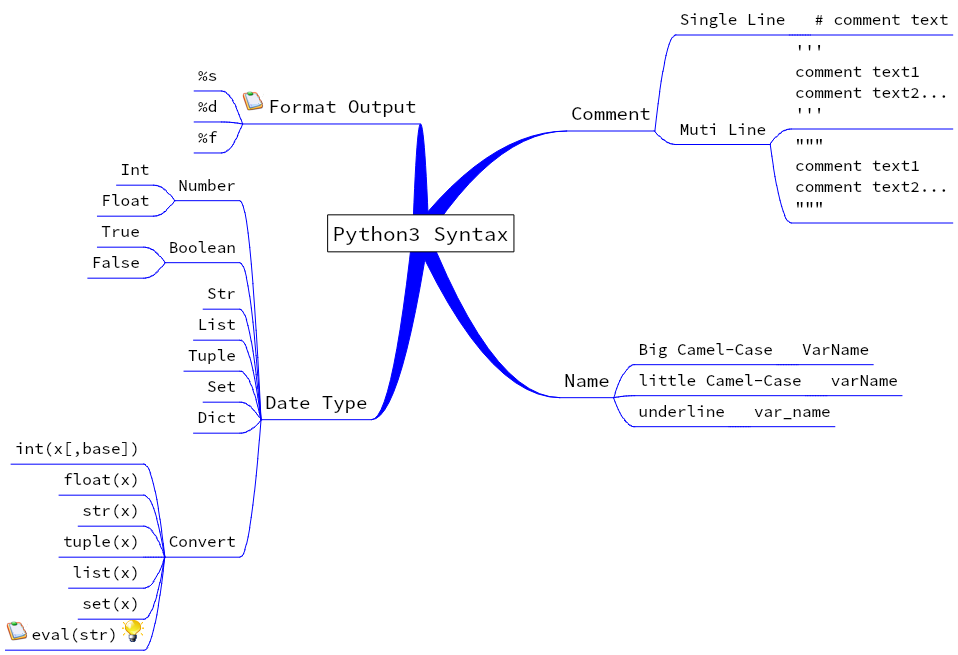
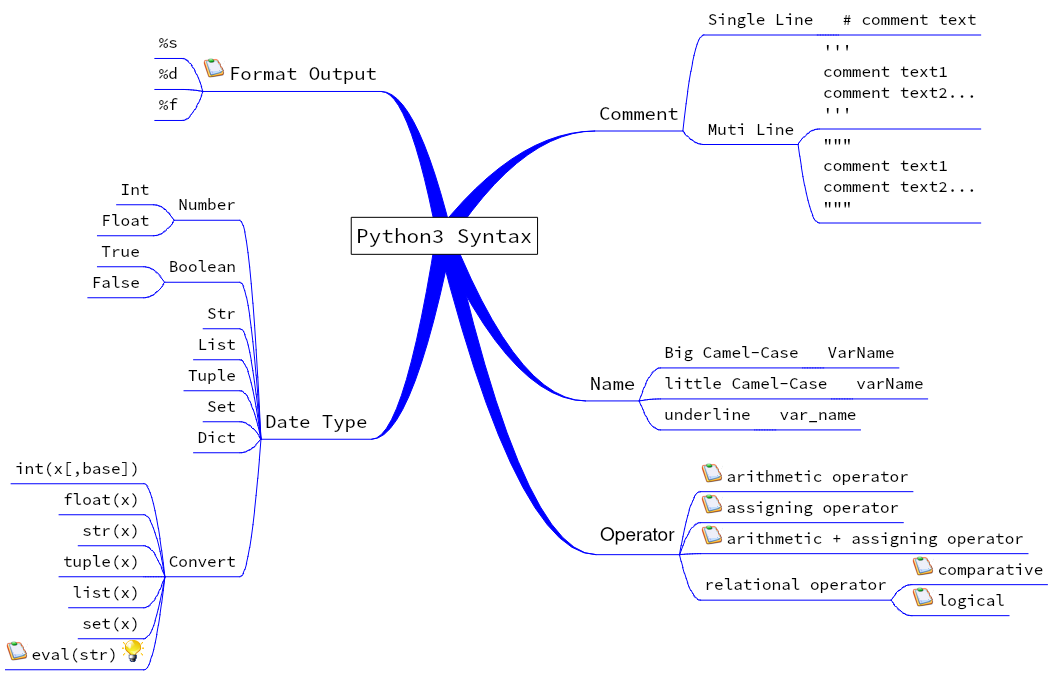
mod Python3_Syntax_Export

diff --git a/Python3_Syntax_Export/Python3_Syntax.html b/Python3_Syntax_Export/Python3_Syntax.html
@@ -63,6 +63,13 @@ comment text2...
 </div><div class="vym-toc-branch-2"><a href="#mc:0,bo:3,bo:0"> 4.1.  %s</a></br>
 </div><div class="vym-toc-branch-2"><a href="#mc:0,bo:3,bo:1"> 4.2.  %d</a></br>
 </div><div class="vym-toc-branch-2"><a href="#mc:0,bo:3,bo:2"> 4.3.  %f</a></br>
+</div><div class="vym-toc-branch-1"><a href="#mc:0,bo:4"> 5.  Operator</a></br>
+</div><div class="vym-toc-branch-2"><a href="#mc:0,bo:4,bo:0"> 5.1.  arithmetic operator</a></br>
+</div><div class="vym-toc-branch-2"><a href="#mc:0,bo:4,bo:1"> 5.2.  assigning operator</a></br>
+</div><div class="vym-toc-branch-2"><a href="#mc:0,bo:4,bo:2"> 5.3.  arithmetic + assigning operator</a></br>
+</div><div class="vym-toc-branch-2"><a href="#mc:0,bo:4,bo:3"> 5.4.  relational operator</a></br>
+</div><div class="vym-toc-branch-3"><a href="#mc:0,bo:4,bo:3,bo:0"> 5.4.1.  comparative</a></br>
+</div><div class="vym-toc-branch-3"><a href="#mc:0,bo:4,bo:3,bo:1"> 5.4.2.  logical</a></br>
 </div></td></tr>
 </table>
 
@@ -138,8 +145,8 @@ comment text2...
 <td>
 <!DOCTYPE HTML PUBLIC "-//W3C//DTD HTML 4.0//EN" "http://www.w3.org/TR/REC-html40/strict.dtd">
 
-<p class="vym-fixed-note-paragraph"><span style=" font-family:'Courier','Source Code Pro'; font-size:12pt; font-weight:384; color:#000000;">convert string to the original date type,</span></p>
-<p class="vym-fixed-note-paragraph"><span style=" font-family:'Courier','Source Code Pro'; font-size:12pt; font-weight:384; color:#000000;">take off the quotation marks.</span></p>
+<p class="vym-note-paragraph"><span style=" font-family:'Courier','Source Code Pro'; font-size:12pt; font-weight:384; color:#000000;">convert string to the original data type,</span></p>
+<p class="vym-note-paragraph"><span style=" font-family:'Courier','Source Code Pro'; font-size:12pt; font-weight:384; color:#000000;">take off the quotation marks.</span></p>
 </td></tr></table>
   </li>
       </ul>  </li>
@@ -160,7 +167,6 @@ comment text2...
 <p class="vym-note-paragraph"><span style=" font-family:'DejaVu Sans Mono','Source Code Pro'; font-size:12pt; color:#000000;">keyword</span></p>
 <p class="vym-note-paragraph"><span style=" font-family:'DejaVu Sans Mono','Source Code Pro'; font-size:12pt; color:#000000;">3.print(&quot;----{a}----{b}----&quot;.format(a=var1, b=var2))</span></p>
 <p class="vym-note-paragraph"><br /></p>
-<p class="vym-note-paragraph"><br /></p>
 <p class="vym-note-paragraph"><span style=" font-family:'DejaVu Sans Mono','Source Code Pro'; font-size:12pt; color:#000000;">for %s the f string is better!</span></p>
 <p class="vym-note-paragraph"><span style=" font-family:'DejaVu Sans Mono','Source Code Pro'; font-size:12pt; color:#000000;">a = &quot;apple&quot;</span></p>
 <p class="vym-note-paragraph"><span style=" font-family:'DejaVu Sans Mono','Source Code Pro'; font-size:12pt; color:#000000;">b = &quot;banana&quot;</span></p>
@@ -172,59 +178,112 @@ comment text2...
       <li><span class='vym-branch-2' style='color:#000000' id='mc:0,bo:3,bo:1'>4.2.  %d</span>  </li>
       <li><span class='vym-branch-2' style='color:#000000' id='mc:0,bo:3,bo:2'>4.3.  %f</span>  </li>
     </ul>
+  <h2><span class='vym-branch-1' style='color:#000000' id='mc:0,bo:4'>5.  Operator</span></h2>
+    <ul class="vym-list-ul-2">
+      <li><span class='vym-branch-2' style='color:#000000' id='mc:0,bo:4,bo:0'>5.1.  arithmetic operator</span>
+<table class="vym-note"><tr><td class="vym-note-flag">
+<td>
+<!DOCTYPE HTML PUBLIC "-//W3C//DTD HTML 4.0//EN" "http://www.w3.org/TR/REC-html40/strict.dtd">
+
+<p class="vym-note-paragraph"><span style=" font-family:'Sans Serif','Source Code Pro'; font-size:12pt;">+ - * / // % ** ()</span></p>
+</td></tr></table>
+  </li>
+      <li><span class='vym-branch-2' style='color:#000000' id='mc:0,bo:4,bo:1'>5.2.  assigning operator</span>
+<table class="vym-note"><tr><td class="vym-note-flag">
+<td>
+<!DOCTYPE HTML PUBLIC "-//W3C//DTD HTML 4.0//EN" "http://www.w3.org/TR/REC-html40/strict.dtd">
+
+<p class="vym-note-paragraph"><span style=" font-family:'DejaVu Sans Mono','Source Code Pro'; font-size:12pt; color:#000000;">=</span></p>
+</td></tr></table>
+  </li>
+      <li><span class='vym-branch-2' style='color:#000000' id='mc:0,bo:4,bo:2'>5.3.  arithmetic + assigning operator</span>
+<table class="vym-note"><tr><td class="vym-note-flag">
+<td>
+<!DOCTYPE HTML PUBLIC "-//W3C//DTD HTML 4.0//EN" "http://www.w3.org/TR/REC-html40/strict.dtd">
+
+<p class="vym-note-paragraph"><span style=" font-family:'DejaVu Sans Mono','Source Code Pro'; font-size:12pt; color:#000000;">+= -= *= /= //= **= %=</span></p>
+</td></tr></table>
+  </li>
+      <li><span class='vym-branch-2' style='color:#000000' id='mc:0,bo:4,bo:3'>5.4.  relational operator</span>
+      <ul class="vym-list-ul-3">
+        <li><span class='vym-branch-3' style='color:#000000' id='mc:0,bo:4,bo:3,bo:0'>5.4.1.  comparative</span>
+<table class="vym-note"><tr><td class="vym-note-flag">
+<td>
+<!DOCTYPE HTML PUBLIC "-//W3C//DTD HTML 4.0//EN" "http://www.w3.org/TR/REC-html40/strict.dtd">
+
+<p class="vym-note-paragraph"><span style=" font-family:'DejaVu Sans Mono','Source Code Pro'; font-size:12pt; color:#000000;">== != &gt; &lt; &gt;= &lt;=</span></p>
+</td></tr></table>
+  </li>
+        <li><span class='vym-branch-3' style='color:#000000' id='mc:0,bo:4,bo:3,bo:1'>5.4.2.  logical</span>
+<table class="vym-note"><tr><td class="vym-note-flag">
+<td>
+<!DOCTYPE HTML PUBLIC "-//W3C//DTD HTML 4.0//EN" "http://www.w3.org/TR/REC-html40/strict.dtd">
+
+<p class="vym-note-paragraph"><span style=" font-family:'DejaVu Sans Mono','Source Code Pro'; font-size:12pt; color:#000000;">and or not</span></p>
+</td></tr></table>
+  </li>
+      </ul>  </li>
+    </ul>
   
 
 <map name='imagemap'>
-  <area shape='rect' coords='328.631,215.83,512.943,250.83' href='#mc:0' alt='Python3 Syntax'>
-  <area shape='rect' coords='567.108,97,654.842,130' href='#mc:0,bo:0' alt='Comment'>
-  <area shape='rect' coords='675.842,5,789.373,34' href='#mc:0,bo:0,bo:0' alt='Single Line'>
-  <area shape='rect' coords='810.373,5,952.686,34' href='#mc:0,bo:0,bo:0,bo:0' alt='# comment text'>
-  <area shape='rect' coords='675.842,114.5,770.186,143.5' href='#mc:0,bo:0,bo:1' alt='Muti Line'>
-  <area shape='rect' coords='791.186,36,952.686,128' href='#mc:0,bo:0,bo:1,bo:0' alt='''' 
+  <area shape='rect' coords='352.249,218.332,536.562,253.332' href='#mc:0' alt='Python3 Syntax'>
+  <area shape='rect' coords='595.084,97,682.818,130' href='#mc:0,bo:0' alt='Comment'>
+  <area shape='rect' coords='703.818,5,817.349,34' href='#mc:0,bo:0,bo:0' alt='Single Line'>
+  <area shape='rect' coords='838.349,5,980.662,34' href='#mc:0,bo:0,bo:0,bo:0' alt='# comment text'>
+  <area shape='rect' coords='703.818,114.5,798.162,143.5' href='#mc:0,bo:0,bo:1' alt='Muti Line'>
+  <area shape='rect' coords='819.162,36,980.662,128' href='#mc:0,bo:0,bo:1,bo:0' alt='''' 
 
 comment text1
 
 comment text2...
 
 ''''>
-  <area shape='rect' coords='791.186,130,952.686,222' href='#mc:0,bo:0,bo:1,bo:1' alt='&quot;&quot;&quot;
+  <area shape='rect' coords='819.162,130,980.662,222' href='#mc:0,bo:0,bo:1,bo:1' alt='&quot;&quot;&quot;
 
 comment text1
 
 comment text2...
 
 &quot;&quot;&quot;'>
-  <area shape='rect' coords='560.137,363.68,613.7,396.68' href='#mc:0,bo:1' alt='Name'>
-  <area shape='rect' coords='634.7,334.68,777.012,363.68' href='#mc:0,bo:1,bo:0' alt='Big Camel-Case'>
-  <area shape='rect' coords='798.012,334.68,873.169,363.68' href='#mc:0,bo:1,bo:0,bo:0' alt='VarName'>
-  <area shape='rect' coords='634.7,365.68,805.794,394.68' href='#mc:0,bo:1,bo:1' alt='little Camel-Case'>
-  <area shape='rect' coords='826.794,365.68,901.95,394.68' href='#mc:0,bo:1,bo:1,bo:0' alt='varName'>
-  <area shape='rect' coords='634.7,396.68,729.044,425.68' href='#mc:0,bo:1,bo:2' alt='underline'>
-  <area shape='rect' coords='750.044,396.68,834.794,425.68' href='#mc:0,bo:1,bo:2,bo:0' alt='var_name'>
-  <area shape='rect' coords='261,385.682,371.516,418.682' href='#mc:0,bo:2' alt='Date Type'>
-  <area shape='rect' coords='174.438,170.682,240,199.682' href='#mc:0,bo:2,bo:0' alt='Number'>
-  <area shape='rect' coords='116.656,155.182,153.438,184.182' href='#mc:0,bo:2,bo:0,bo:0' alt='Int'>
-  <area shape='rect' coords='97.4688,186.182,153.438,215.182' href='#mc:0,bo:2,bo:0,bo:1' alt='Float'>
-  <area shape='rect' coords='164.844,232.682,240,261.682' href='#mc:0,bo:2,bo:1' alt='Boolean'>
-  <area shape='rect' coords='97.4688,217.182,143.844,246.182' href='#mc:0,bo:2,bo:1,bo:0' alt='True'>
-  <area shape='rect' coords='87.875,248.182,143.844,277.182' href='#mc:0,bo:2,bo:1,bo:1' alt='False'>
-  <area shape='rect' coords='203.219,279.182,240,308.182' href='#mc:0,bo:2,bo:2' alt='Str'>
-  <area shape='rect' coords='193.625,310.182,240,339.182' href='#mc:0,bo:2,bo:3' alt='List'>
-  <area shape='rect' coords='184.031,341.182,240,370.182' href='#mc:0,bo:2,bo:4' alt='Tuple'>
-  <area shape='rect' coords='203.219,372.182,240,401.182' href='#mc:0,bo:2,bo:5' alt='Set'>
-  <area shape='rect' coords='193.625,403.182,240,432.182' href='#mc:0,bo:2,bo:6' alt='Dict'>
-  <area shape='rect' coords='164.844,527.182,240,556.182' href='#mc:0,bo:2,bo:7' alt='Convert'>
-  <area shape='rect' coords='11.125,434.182,143.844,463.182' href='#mc:0,bo:2,bo:7,bo:0' alt='int(x[,base])'>
-  <area shape='rect' coords='59.0938,465.182,143.844,494.182' href='#mc:0,bo:2,bo:7,bo:1' alt='float(x)'>
-  <area shape='rect' coords='78.2813,496.182,143.844,525.182' href='#mc:0,bo:2,bo:7,bo:2' alt='str(x)'>
-  <area shape='rect' coords='59.0938,527.182,143.844,556.182' href='#mc:0,bo:2,bo:7,bo:3' alt='tuple(x)'>
-  <area shape='rect' coords='68.6875,558.182,143.844,587.182' href='#mc:0,bo:2,bo:7,bo:4' alt='list(x)'>
-  <area shape='rect' coords='78.2813,589.182,143.844,618.182' href='#mc:0,bo:2,bo:7,bo:5' alt='set(x)'>
-  <area shape='rect' coords='27.5,620.182,121.844,649.182' href='#mc:0,bo:2,bo:7,bo:6' alt='eval(str)'>
-  <area shape='rect' coords='264.437,89.9799,420.515,122.98' href='#mc:0,bo:3' alt='Format Output'>
-  <area shape='rect' coords='194.249,60.9799,221.437,89.9799' href='#mc:0,bo:3,bo:0' alt='%s'>
-  <area shape='rect' coords='194.249,91.9799,221.437,120.98' href='#mc:0,bo:3,bo:1' alt='%d'>
-  <area shape='rect' coords='194.249,122.98,221.437,151.98' href='#mc:0,bo:3,bo:2' alt='%f'>
+  <area shape='rect' coords='585.801,366.929,639.363,399.929' href='#mc:0,bo:1' alt='Name'>
+  <area shape='rect' coords='660.363,337.929,802.676,366.929' href='#mc:0,bo:1,bo:0' alt='Big Camel-Case'>
+  <area shape='rect' coords='823.676,337.929,898.832,366.929' href='#mc:0,bo:1,bo:0,bo:0' alt='VarName'>
+  <area shape='rect' coords='660.363,368.929,831.457,397.929' href='#mc:0,bo:1,bo:1' alt='little Camel-Case'>
+  <area shape='rect' coords='852.457,368.929,927.613,397.929' href='#mc:0,bo:1,bo:1,bo:0' alt='varName'>
+  <area shape='rect' coords='660.363,399.929,754.707,428.929' href='#mc:0,bo:1,bo:2' alt='underline'>
+  <area shape='rect' coords='775.707,399.929,860.457,428.929' href='#mc:0,bo:1,bo:2,bo:0' alt='var_name'>
+  <area shape='rect' coords='261,405.262,371.516,438.262' href='#mc:0,bo:2' alt='Date Type'>
+  <area shape='rect' coords='174.438,190.262,240,219.262' href='#mc:0,bo:2,bo:0' alt='Number'>
+  <area shape='rect' coords='116.656,174.762,153.438,203.762' href='#mc:0,bo:2,bo:0,bo:0' alt='Int'>
+  <area shape='rect' coords='97.4688,205.762,153.438,234.762' href='#mc:0,bo:2,bo:0,bo:1' alt='Float'>
+  <area shape='rect' coords='164.844,252.262,240,281.262' href='#mc:0,bo:2,bo:1' alt='Boolean'>
+  <area shape='rect' coords='97.4688,236.762,143.844,265.762' href='#mc:0,bo:2,bo:1,bo:0' alt='True'>
+  <area shape='rect' coords='87.875,267.762,143.844,296.762' href='#mc:0,bo:2,bo:1,bo:1' alt='False'>
+  <area shape='rect' coords='203.219,298.762,240,327.762' href='#mc:0,bo:2,bo:2' alt='Str'>
+  <area shape='rect' coords='193.625,329.762,240,358.762' href='#mc:0,bo:2,bo:3' alt='List'>
+  <area shape='rect' coords='184.031,360.762,240,389.762' href='#mc:0,bo:2,bo:4' alt='Tuple'>
+  <area shape='rect' coords='203.219,391.762,240,420.762' href='#mc:0,bo:2,bo:5' alt='Set'>
+  <area shape='rect' coords='193.625,422.762,240,451.762' href='#mc:0,bo:2,bo:6' alt='Dict'>
+  <area shape='rect' coords='164.844,546.762,240,575.762' href='#mc:0,bo:2,bo:7' alt='Convert'>
+  <area shape='rect' coords='11.125,453.762,143.844,482.762' href='#mc:0,bo:2,bo:7,bo:0' alt='int(x[,base])'>
+  <area shape='rect' coords='59.0938,484.762,143.844,513.762' href='#mc:0,bo:2,bo:7,bo:1' alt='float(x)'>
+  <area shape='rect' coords='78.2813,515.762,143.844,544.762' href='#mc:0,bo:2,bo:7,bo:2' alt='str(x)'>
+  <area shape='rect' coords='59.0938,546.762,143.844,575.762' href='#mc:0,bo:2,bo:7,bo:3' alt='tuple(x)'>
+  <area shape='rect' coords='68.6875,577.762,143.844,606.762' href='#mc:0,bo:2,bo:7,bo:4' alt='list(x)'>
+  <area shape='rect' coords='78.2813,608.762,143.844,637.762' href='#mc:0,bo:2,bo:7,bo:5' alt='set(x)'>
+  <area shape='rect' coords='27.5,639.762,121.844,668.762' href='#mc:0,bo:2,bo:7,bo:6' alt='eval(str)'>
+  <area shape='rect' coords='225.055,57.4818,381.134,90.4818' href='#mc:0,bo:3' alt='Format Output'>
+  <area shape='rect' coords='154.868,28.4818,182.055,57.4818' href='#mc:0,bo:3,bo:0' alt='%s'>
+  <area shape='rect' coords='154.868,59.4818,182.055,88.4818' href='#mc:0,bo:3,bo:1' alt='%d'>
+  <area shape='rect' coords='154.868,90.4818,182.055,119.482' href='#mc:0,bo:3,bo:2' alt='%f'>
+  <area shape='rect' coords='596.177,522.664,679.584,553.664' href='#mc:0,bo:4' alt='Operator'>
+  <area shape='rect' coords='722.584,461.664,912.865,490.664' href='#mc:0,bo:4,bo:0' alt='arithmetic operator'>
+  <area shape='rect' coords='722.584,492.664,903.271,521.664' href='#mc:0,bo:4,bo:1' alt='assigning operator'>
+  <area shape='rect' coords='722.584,523.664,1027.99,552.664' href='#mc:0,bo:4,bo:2' alt='arithmetic + assigning operator'>
+  <area shape='rect' coords='700.584,570.164,890.865,599.164' href='#mc:0,bo:4,bo:3' alt='relational operator'>
+  <area shape='rect' coords='933.865,554.664,1047.4,583.664' href='#mc:0,bo:4,bo:3,bo:0' alt='comparative'>
+  <area shape='rect' coords='933.865,585.664,1009.02,614.664' href='#mc:0,bo:4,bo:3,bo:1' alt='logical'>
 </map>
 <hr/>
 <table class="vym-footer">   
